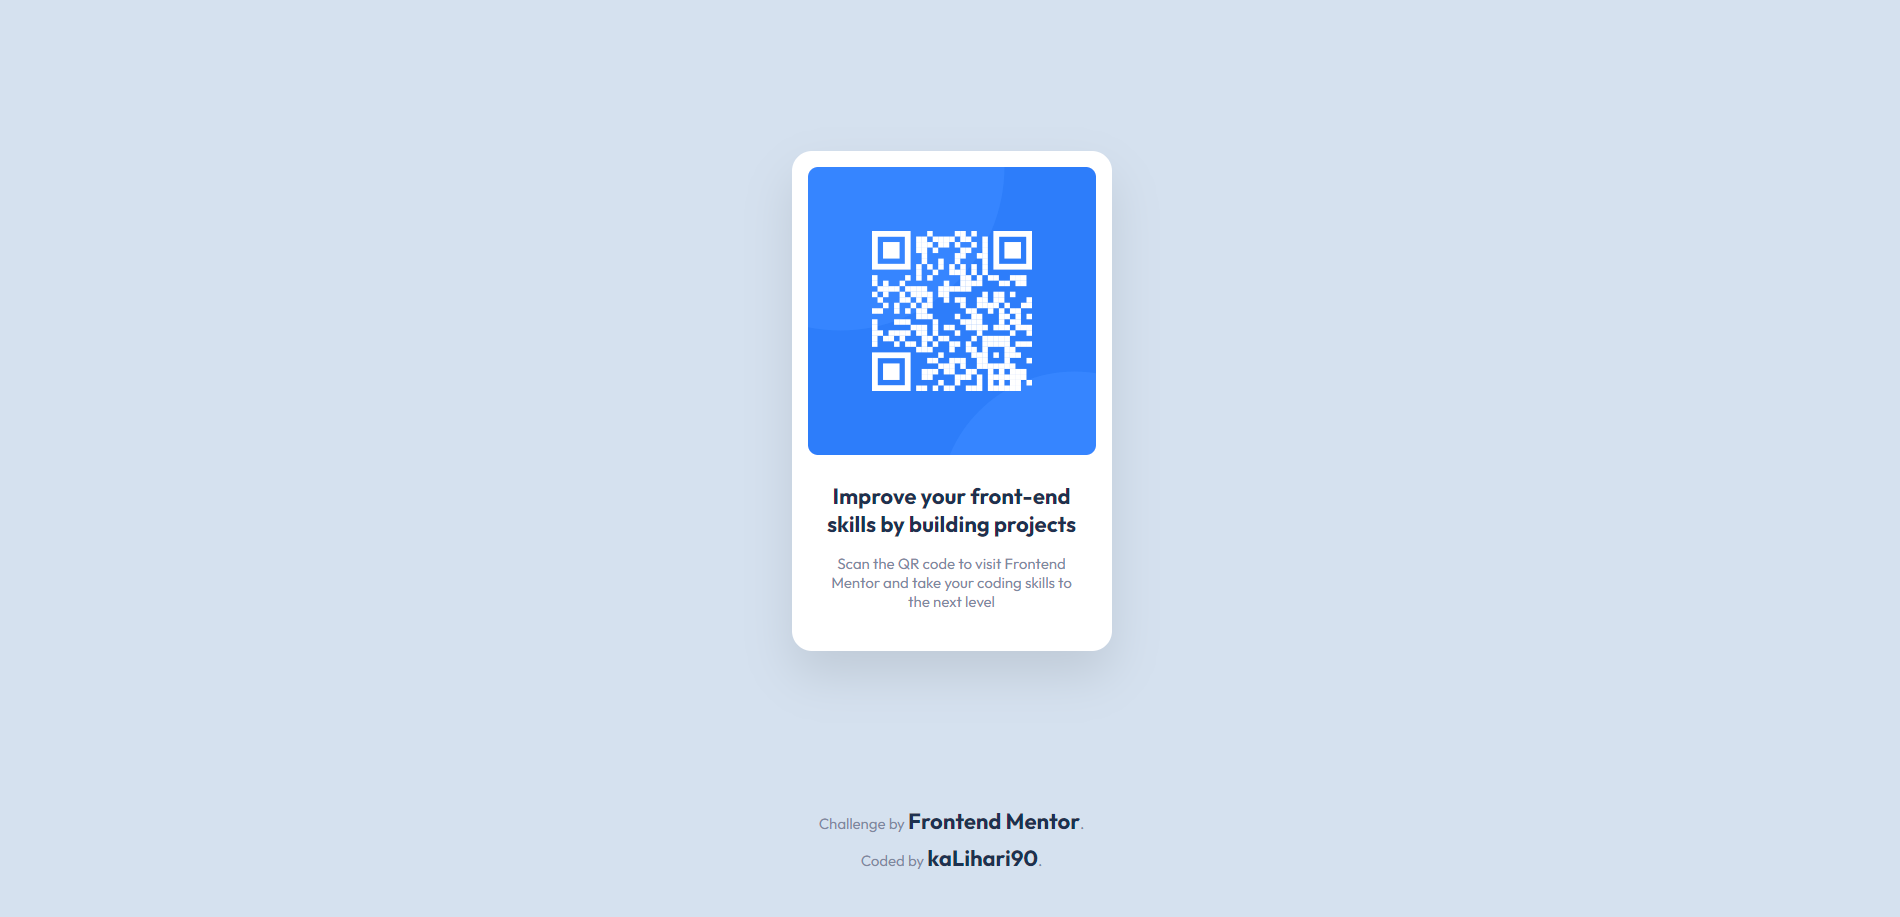
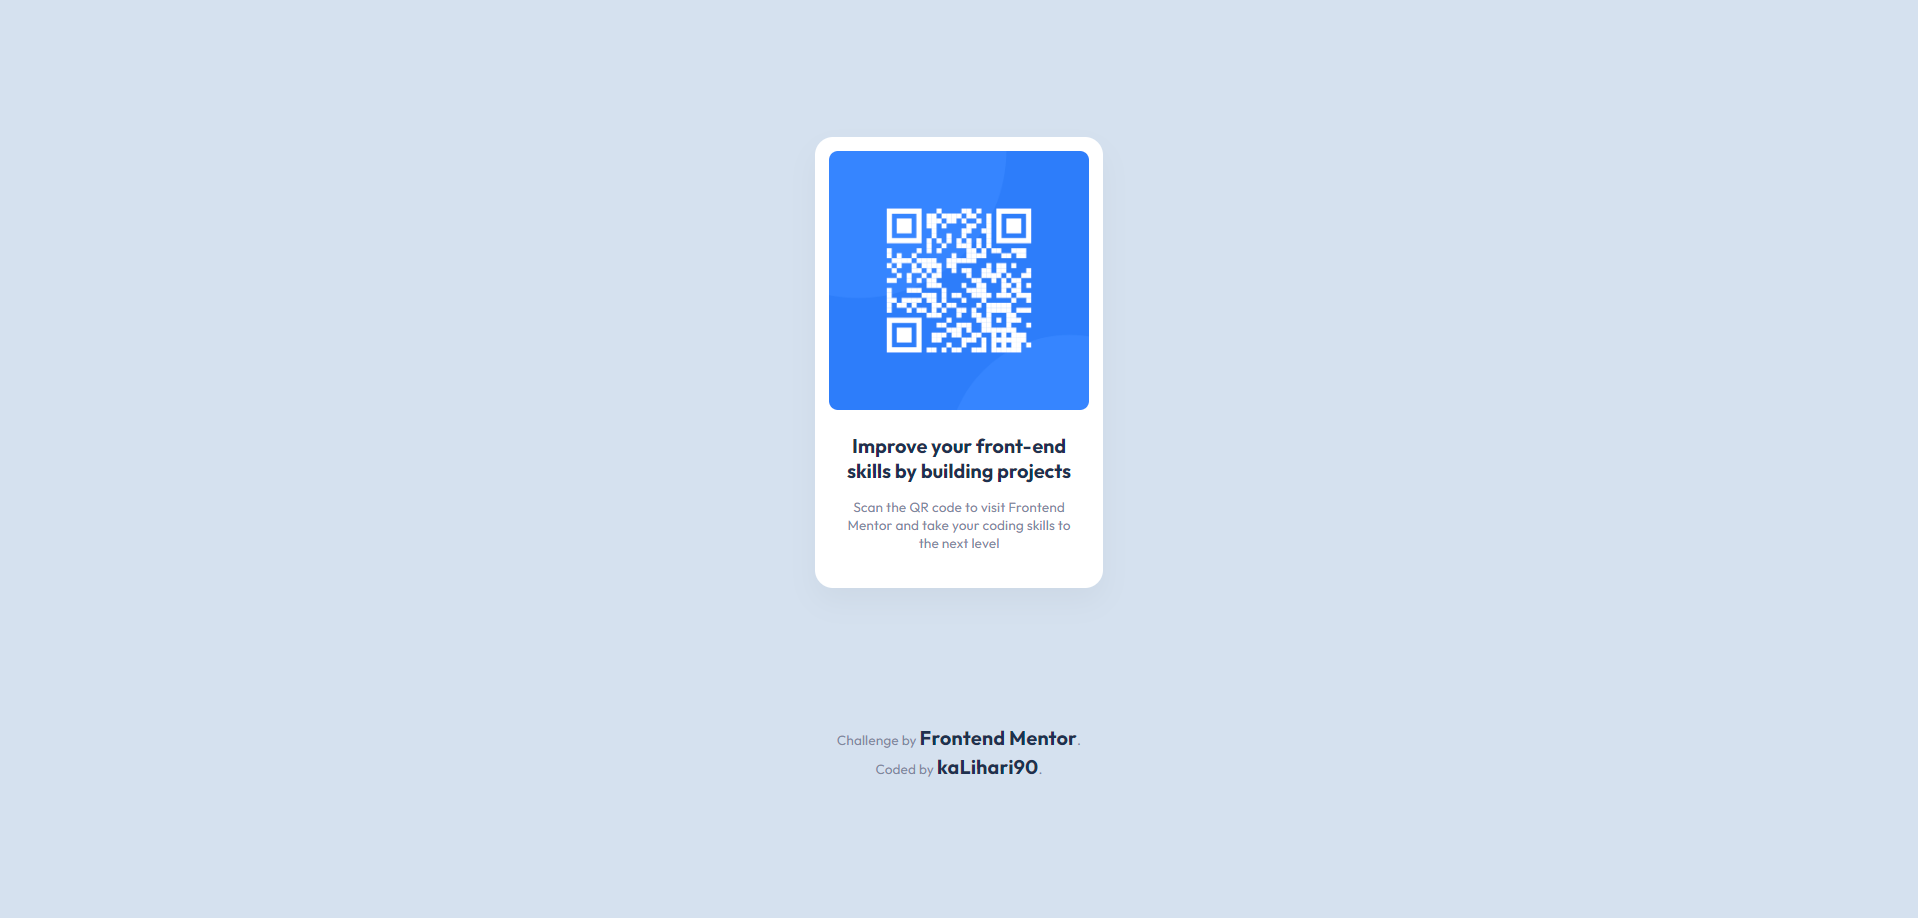
update screenshot

Changed region(s): [[0.4037, 0.1221, 0.59, 0.7328], [0.4347, 0.8855, 0.5589, 0.9466], [0.4347, 0.7939, 0.5589, 0.855]]

diff --git a/css/style.css b/css/style.css
@@ -29,11 +29,13 @@ h1,
 a {
 	font-size: 2.2rem;
 	font-weight: 700;
+	line-height: 1.25;
 }
 
 p {
 	font-size: 1.5rem;
 	font-weight: 400;
+	letter-spacing: 0.02rem;
 }
 
 .container {
@@ -47,7 +49,7 @@ p {
 	background-color: var(--white);
 	border-radius: 2rem;
 	padding: 1.6rem;
-	box-shadow: 0 2.4rem 4.8rem rgba(0, 0, 0, 0.1);
+	box-shadow: 0 1.6rem 3.2rem rgba(0, 0, 0, 0.04);
 }
 
 .qr-text {
